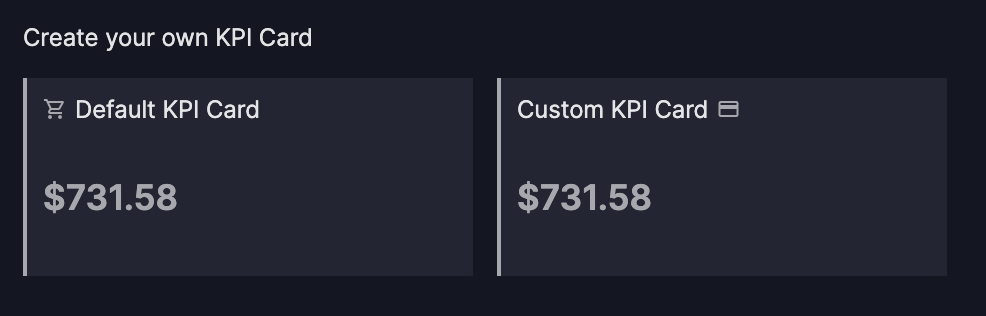
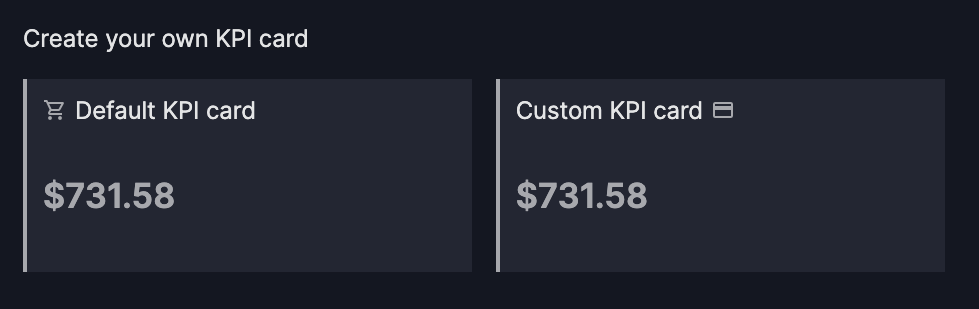
Make `Card` lower-case

diff --git a/vizro-core/examples/_dev/app.py b/vizro-core/examples/_dev/app.py
@@ -1,65 +1,66 @@
 """Dev app to try things out."""
 
+from typing import Optional
+
+import dash_bootstrap_components as dbc
 import pandas as pd
 import vizro.models as vm
+import vizro.plotly.express as px
+from dash import html
 from vizro import Vizro
-from vizro.figures import kpi_card, kpi_card_reference
+from vizro.figures import kpi_card
+from vizro.models.types import capture
 
-df_kpi = pd.DataFrame({"Actual": [100, 200, 700], "Reference": [100, 300, 500], "Category": ["A", "B", "C"]})
+tips = px.data.tips
 
-example_cards = [
-    kpi_card(data_frame=df_kpi, value_column="Actual", title="KPI with value"),
-    kpi_card(data_frame=df_kpi, value_column="Actual", title="KPI with aggregation", agg_func="median"),
-    kpi_card(
-        data_frame=df_kpi,
-        value_column="Actual",
-        title="KPI with formatting",
-        value_format="${value:.2f}",
-    ),
-    kpi_card(
-        data_frame=df_kpi,
-        value_column="Actual",
-        title="KPI with icon",
-        icon="shopping_cart",
-    ),
-]
 
-example_reference_cards = [
-    kpi_card_reference(
-        data_frame=df_kpi,
-        value_column="Actual",
-        reference_column="Reference",
-        title="KPI reference (pos)",
-    ),
-    kpi_card_reference(
-        data_frame=df_kpi,
-        value_column="Actual",
-        reference_column="Reference",
-        agg_func="median",
-        title="KPI reference (neg)",
-    ),
-    kpi_card_reference(
-        data_frame=df_kpi,
-        value_column="Actual",
-        reference_column="Reference",
-        title="KPI reference with formatting",
-        value_format="{value:.2f}$",
-        reference_format="{delta:.2f}$ vs. last year ({reference:.2f}$)",
-    ),
-    kpi_card_reference(
-        data_frame=df_kpi,
-        value_column="Actual",
-        reference_column="Reference",
-        title="KPI reference with icon",
-        icon="shopping_cart",
-    ),
-]
+@capture("figure")  # (1)!
+def custom_kpi_card(
+    data_frame: pd.DataFrame,
+    value_column: str,
+    *,
+    value_format: str = "{value}",
+    agg_func: str = "sum",
+    title: Optional[str] = None,
+    icon: Optional[str] = None,
+) -> dbc.Card:  # (2)!
+    """Creates a custom KPI card."""
+    title = title or f"{agg_func} {value_column}".title()
+    value = data_frame[value_column].agg(agg_func)
+
+    header = dbc.CardHeader(
+        [
+            html.H2(title),
+            html.P(icon, className="material-symbols-outlined") if icon else None,  # (3)!
+        ]
+    )
+    body = dbc.CardBody([value_format.format(value=value)])
+    return dbc.Card([header, body], className="card-kpi")
+
 
 page = vm.Page(
-    title="KPI Indicators",
-    layout=vm.Layout(grid=[[0, 1, 2, 3], [4, 5, 6, 7], [-1, -1, -1, -1], [-1, -1, -1, -1]]),
-    components=[vm.Figure(figure=figure) for figure in example_cards + example_reference_cards],
-    controls=[vm.Filter(column="Category")],
+    title="Create your own KPI card",
+    layout=vm.Layout(grid=[[0, 1, -1, -1]] + [[-1, -1, -1, -1]] * 3),  # (4)!
+    components=[
+        vm.Figure(
+            figure=kpi_card(  # (5)!
+                data_frame=tips,
+                value_column="tip",
+                value_format="${value:.2f}",
+                icon="shopping_cart",
+                title="Default KPI card",
+            )
+        ),
+        vm.Figure(
+            figure=custom_kpi_card(  # (6)!
+                data_frame=tips,
+                value_column="tip",
+                value_format="${value:.2f}",
+                icon="payment",
+                title="Custom KPI card",
+            )
+        ),
+    ],
 )
 
 dashboard = vm.Dashboard(pages=[page])

diff --git a/vizro-core/docs/pages/user-guides/figure.md b/vizro-core/docs/pages/user-guides/figure.md
@@ -12,7 +12,7 @@ If these more specific models already achieve what you need then they should be 
 the more generic `Figure`. Remember that it is possible to supply [custom charts](custom-charts.md) to `Graph`
 and [custom tables](custom-tables.md) to `Table`.
 
-There are already a few figure functions you can reuse, see the section on [KPI Cards](#key-performance-indicator-kpi-cards)
+There are already a few figure functions you can reuse, see the section on [KPI cards](#key-performance-indicator-kpi-cards)
 for more details:
 
 - [`kpi_card`][vizro.figures.kpi_card]
@@ -58,7 +58,7 @@ To add a `Figure` to your page:
         tips = px.data.tips
 
         page = vm.Page(
-            title="KPI Indicators",
+            title="KPI card",
             layout=vm.Layout(grid=[[0, -1, -1, -1]] + [[-1, -1, -1, -1]] * 4),  # (1)!
             components=[
                 vm.Figure(
@@ -67,7 +67,7 @@ To add a `Figure` to your page:
                         value_column="tip",
                         value_format="${value:.2f}",
                         icon="shopping_cart",
-                        title="KPI Card I",
+                        title="KPI card I",
                     )
                 )
             ],
@@ -93,7 +93,7 @@ To add a `Figure` to your page:
                   value_column: tip
                   value_format: ${value:.2f}
                   icon: shopping_cart
-                  title: KPI Card I
+                  title: KPI card I
                 type: figure
             controls:
               - column: day
@@ -109,7 +109,7 @@ To add a `Figure` to your page:
                   [-1, -1, -1, -1],
                   [-1, -1, -1, -1],
                 ]
-            title: KPI Indicators
+            title: KPI card
         ```
     === "Result"
         [![Figure]][Figure]
@@ -133,7 +133,7 @@ As described in the [API reference](../API-reference/figure-callables.md) and il
 functions have several arguments to customize your KPI cards. If you require a level of customization that is not
 possible with the built-in functions then you can create a [custom figure](custom-figures.md).
 
-!!! example "KPI Card Variations"
+!!! example "KPI card Variations"
 
     === "app.py"
         ```py
@@ -180,8 +180,8 @@ possible with the built-in functions then you can create a [custom figure](custo
                 value_column="Actual",
                 reference_column="Reference",
                 title="KPI reference with formatting",
-                value_format="{value:.2f}$",
-                reference_format="{delta:.2f}$ vs. last year ({reference:.2f}$)",
+                value_format="{value:.2f}€",
+                reference_format="{delta:+.2f}€ vs. last year ({reference:.2f}€)",
             ),
             kpi_card_reference(
                 data_frame=df_kpi,
@@ -193,7 +193,7 @@ possible with the built-in functions then you can create a [custom figure](custo
         ]
 
         page = vm.Page(
-            title="KPI Indicators",
+            title="KPI cards",
             layout=vm.Layout(grid=[[0, 1, 2, 3], [4, 5, 6, 7], [-1, -1, -1, -1], [-1, -1, -1, -1]]),  # (3)!
             components=[vm.Figure(figure=figure) for figure in example_cards + example_reference_cards],
             controls=[vm.Filter(column="Category")],
@@ -261,8 +261,8 @@ possible with the built-in functions then you can create a [custom figure](custo
                   value_column: Actual
                   reference_column: Reference
                   title: KPI reference with formatting
-                  value_format: "{value:.2f}$"
-                  reference_format: "{delta:.2f}$ vs. last year ({reference:.2f}$)"
+                  value_format: "{value:.2f}€"
+                  reference_format: "{delta:+.2f}€ vs. last year ({reference:.2f}€)"
                 type: figure
               - figure:
                   _target_: kpi_card_reference
@@ -277,7 +277,7 @@ possible with the built-in functions then you can create a [custom figure](custo
                 type: filter
             layout:
               grid: [[0, 1, 2, 3], [4, 5, 6, 7], [-1, -1, -1, -1], [-1, -1, -1, -1]]
-            title: KPI Indicators
+            title: KPI cards
         ```
     === "Result"
         [![KPICards]][KPICards]

diff --git a/vizro-core/docs/pages/user-guides/custom-figures.md b/vizro-core/docs/pages/user-guides/custom-figures.md
@@ -63,7 +63,7 @@ adjust the return statement of the function.
             title: Optional[str] = None,
             icon: Optional[str] = None,
         ) -> dbc.Card:  # (2)!
-            """Creates a custom KPI Card."""
+            """Creates a custom KPI card."""
             title = title or f"{agg_func} {value_column}".title()
             value = data_frame[value_column].agg(agg_func)
 
@@ -78,7 +78,7 @@ adjust the return statement of the function.
 
 
         page = vm.Page(
-            title="Create your own KPI Card",
+            title="Create your own KPI card",
             layout=vm.Layout(grid=[[0, 1, -1, -1]] + [[-1, -1, -1, -1]] * 3),  # (4)!
             components=[
                 vm.Figure(
@@ -87,7 +87,7 @@ adjust the return statement of the function.
                         value_column="tip",
                         value_format="${value:.2f}",
                         icon="shopping_cart",
-                        title="Default KPI Card",
+                        title="Default KPI card",
                     )
                 ),
                 vm.Figure(
@@ -96,7 +96,7 @@ adjust the return statement of the function.
                         value_column="tip",
                         value_format="${value:.2f}",
                         icon="payment",
-                        title="Custom KPI Card",
+                        title="Custom KPI card",
                     )
                 ),
             ],
